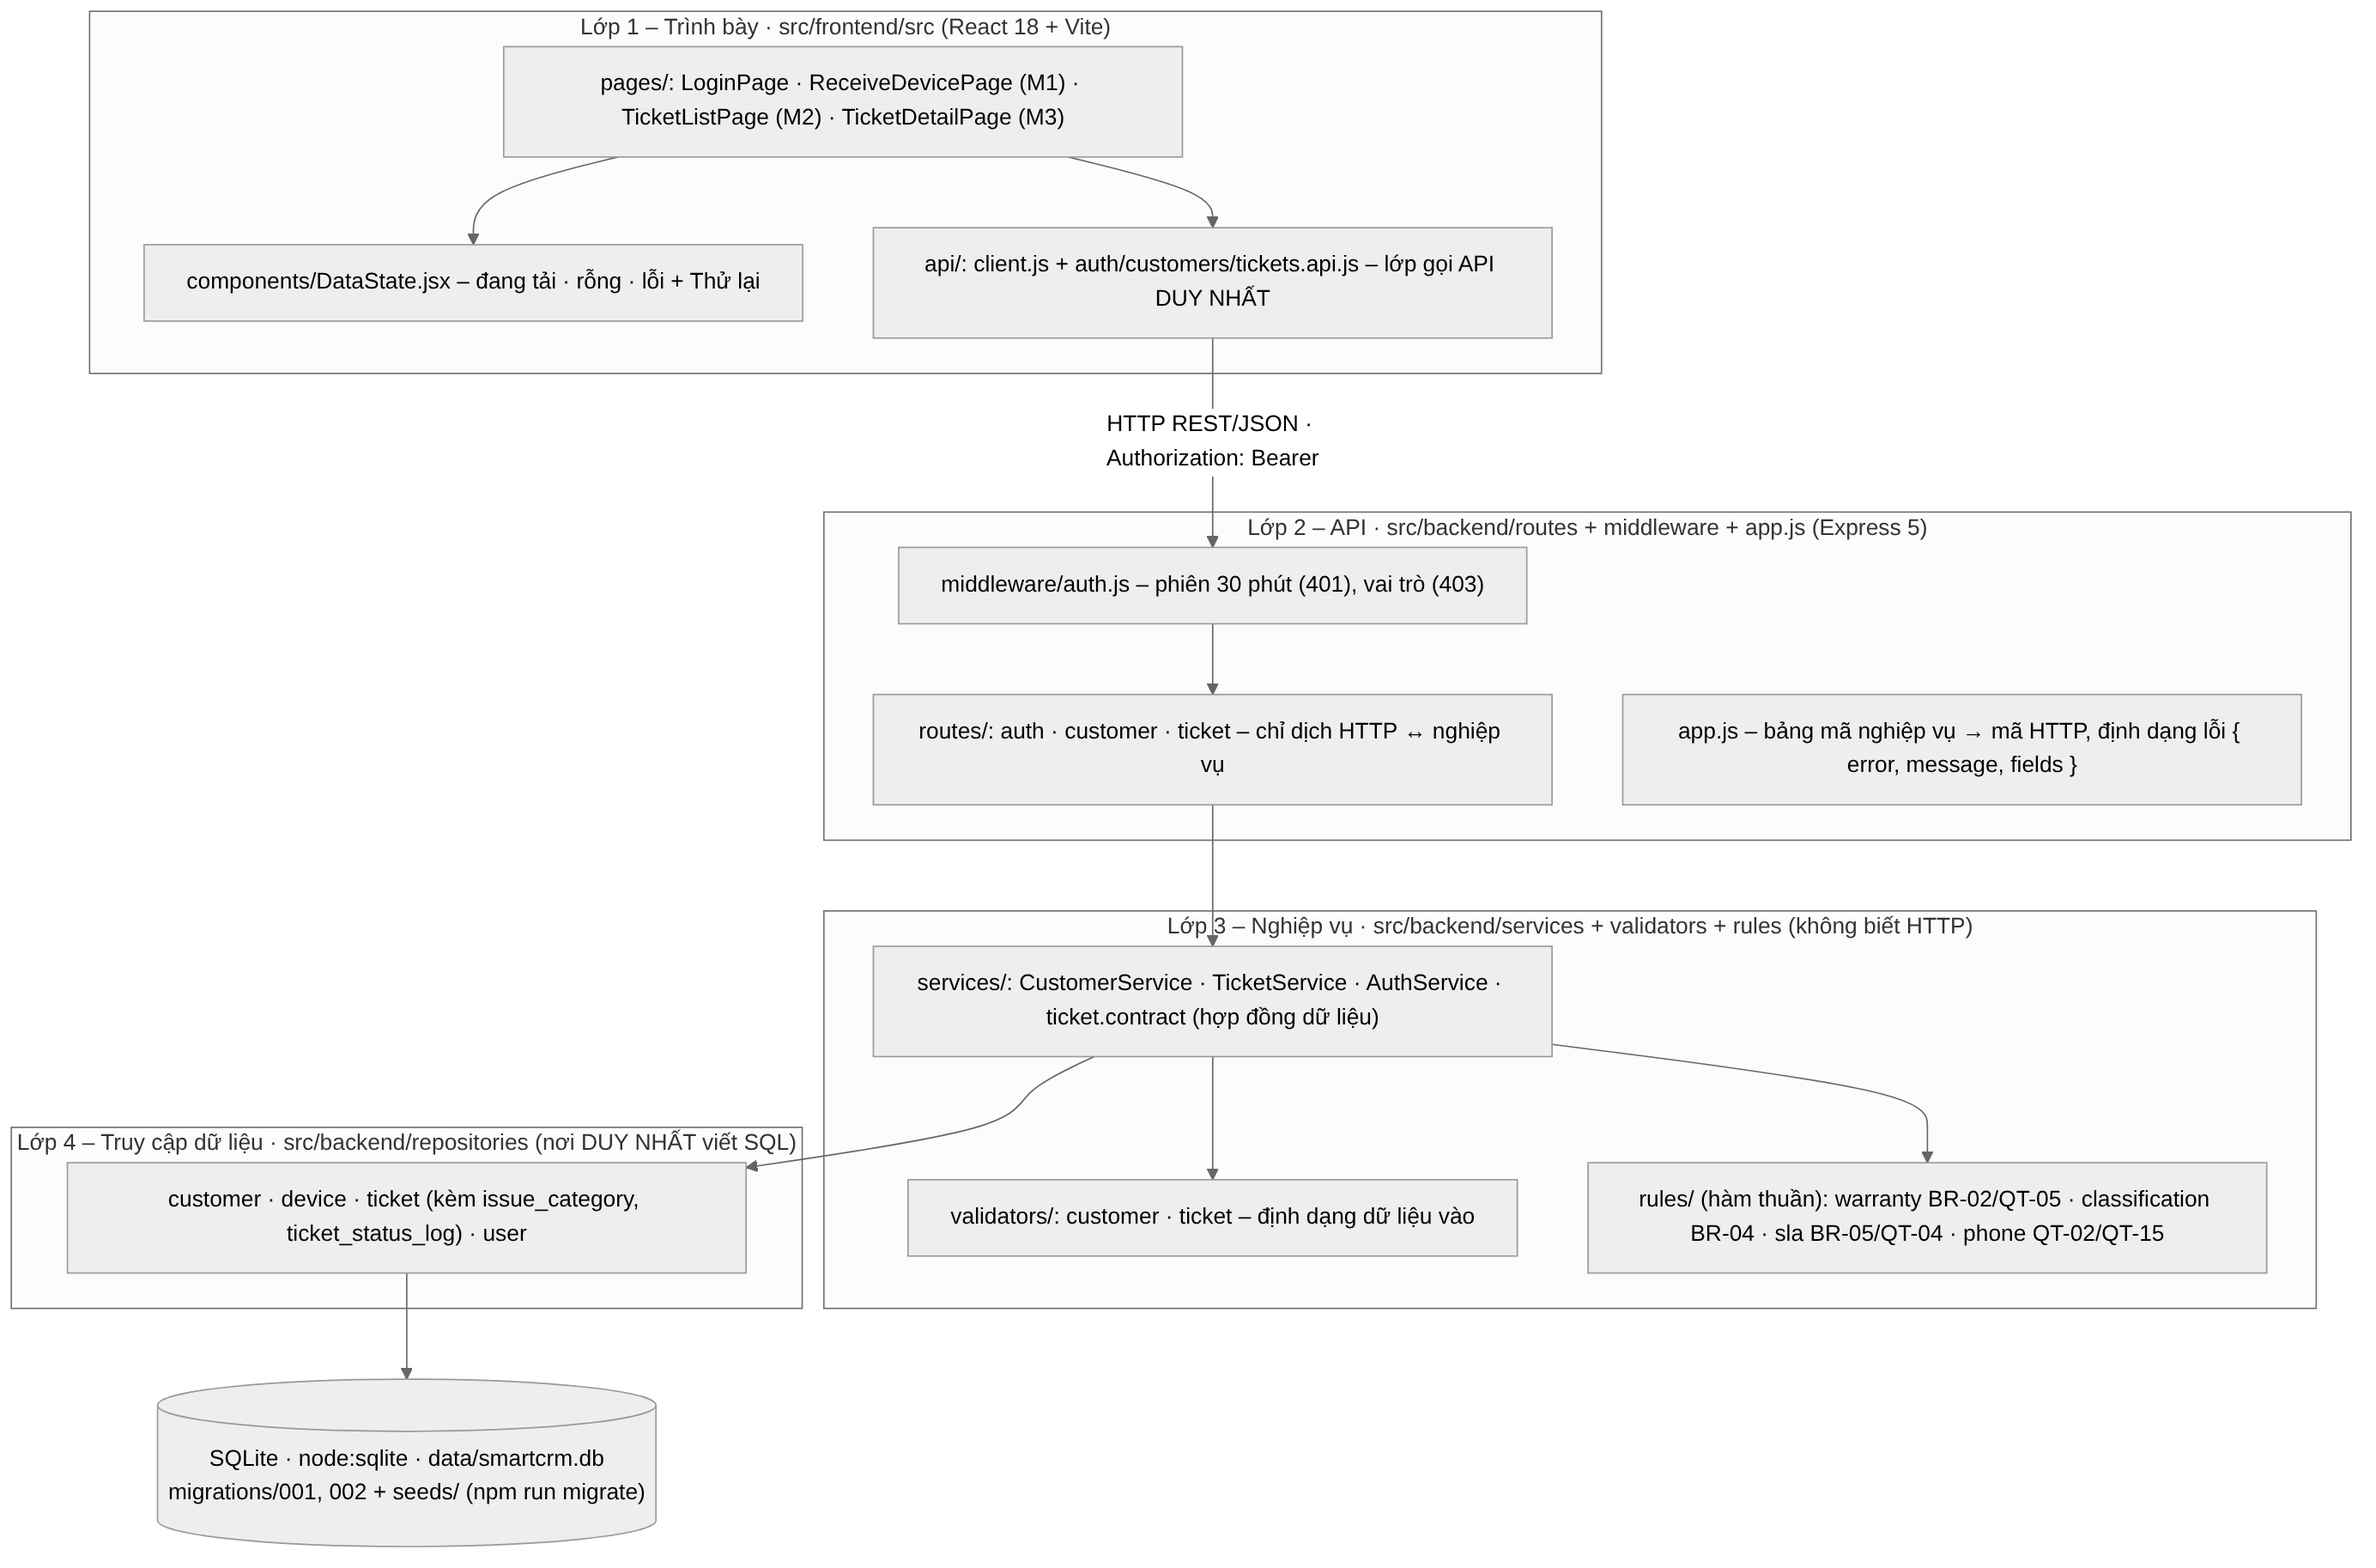
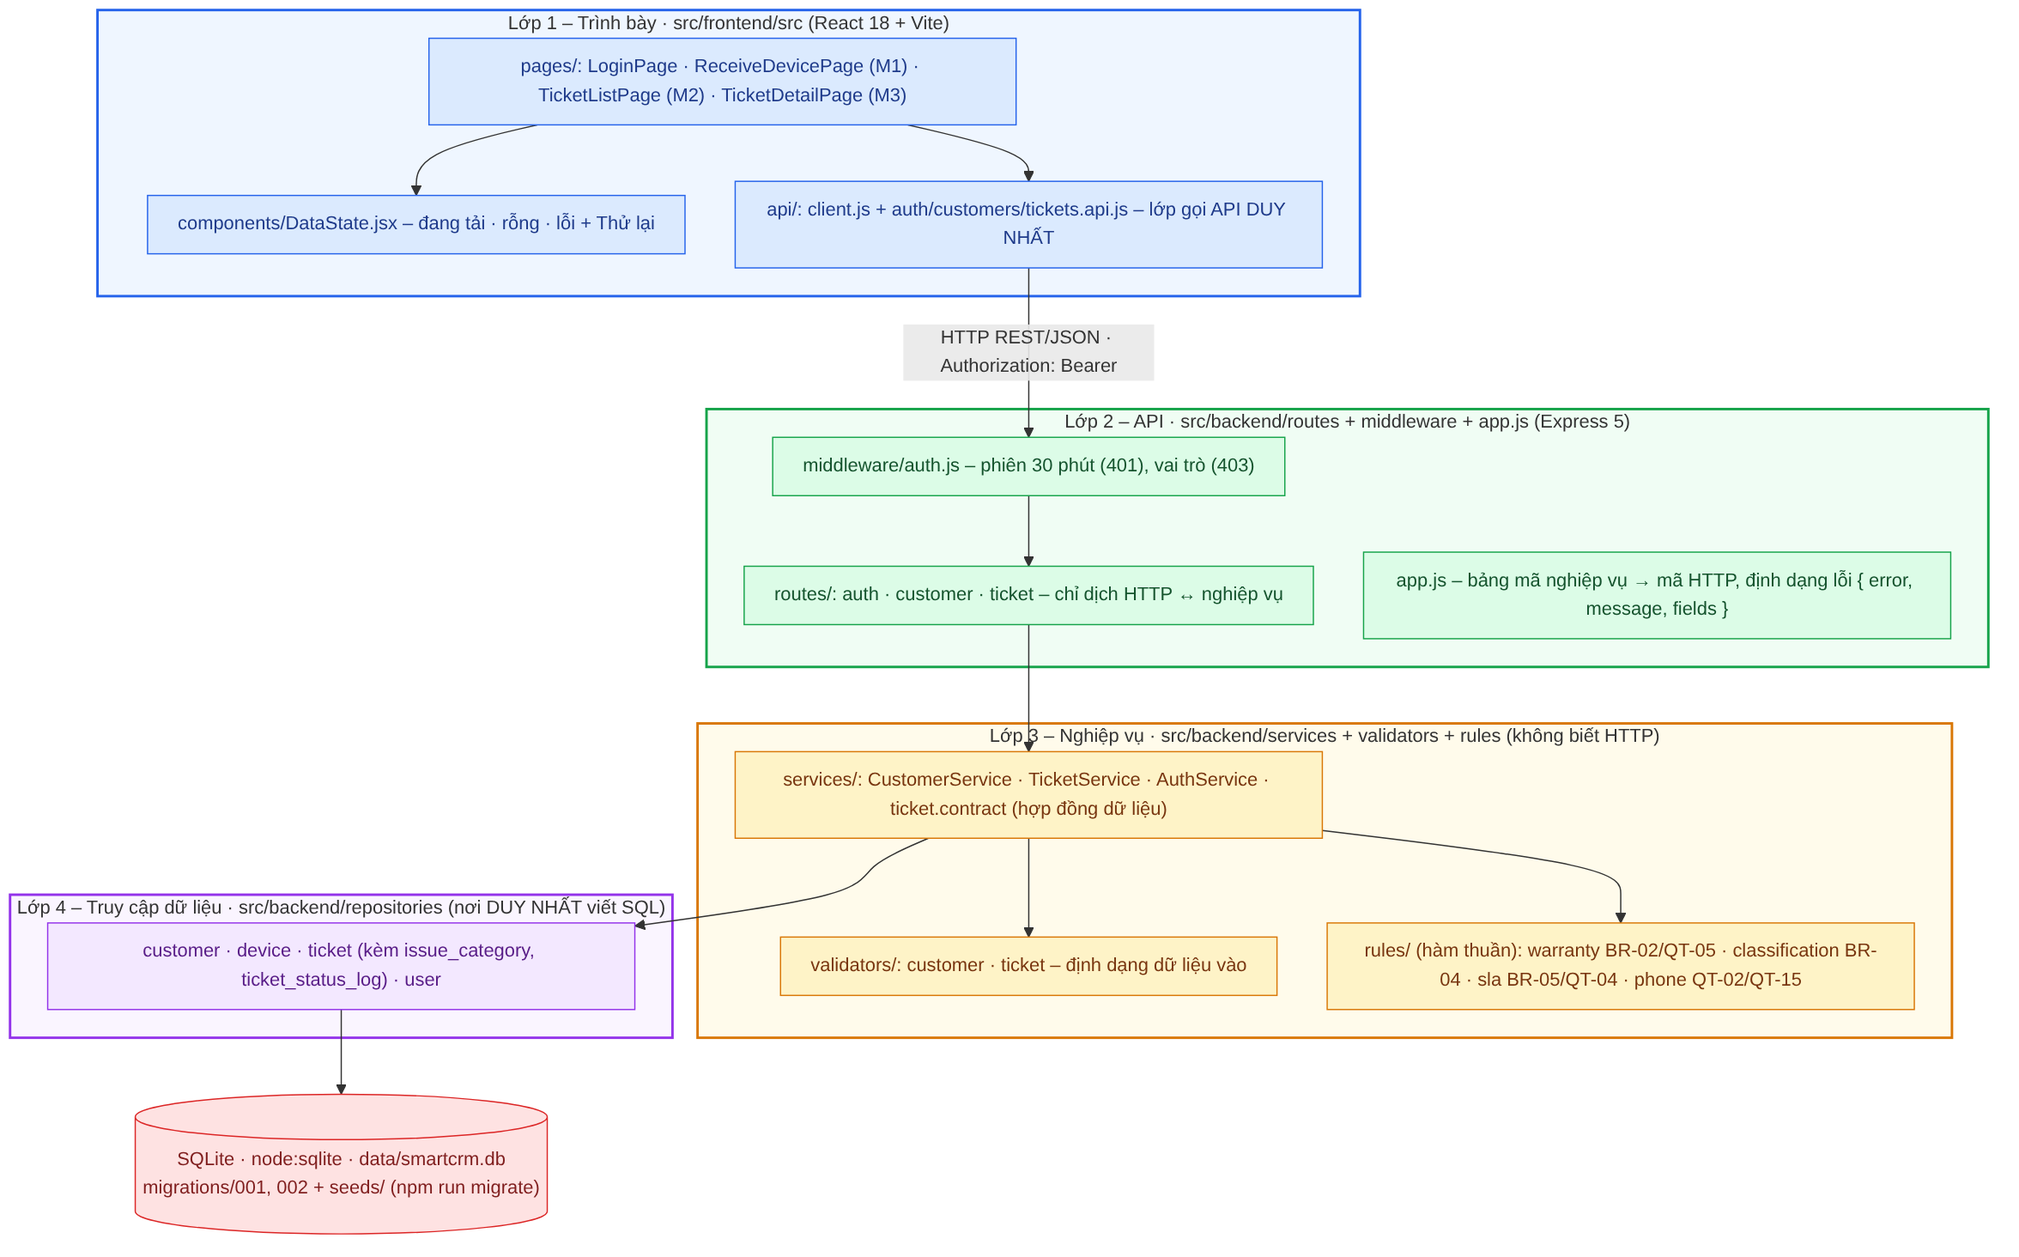
docs: to mau so do kien truc thuc te

diff --git a/docs/architecture-thuc-te.md b/docs/architecture-thuc-te.md
@@ -34,6 +34,20 @@ flowchart TB
   R --> S
   S --> RP
   RP --> DB
+  classDef l1 fill:#DBEAFE,stroke:#2563EB,color:#1E3A8A
+  classDef l2 fill:#DCFCE7,stroke:#16A34A,color:#14532D
+  classDef l3 fill:#FEF3C7,stroke:#D97706,color:#78350F
+  classDef l4 fill:#F3E8FF,stroke:#9333EA,color:#581C87
+  classDef db fill:#FEE2E2,stroke:#DC2626,color:#7F1D1D
+  class P,DS,C l1
+  class MW,R,EH l2
+  class V,S,RU l3
+  class RP l4
+  class DB db
+  style L1 fill:#EFF6FF,stroke:#2563EB,stroke-width:2px
+  style L2 fill:#F0FDF4,stroke:#16A34A,stroke-width:2px
+  style L3 fill:#FFFBEB,stroke:#D97706,stroke-width:2px
+  style L4 fill:#FAF5FF,stroke:#9333EA,stroke-width:2px
 ```
 
 | Lớp | Thư mục | Kiểm chứng ranh giới |
